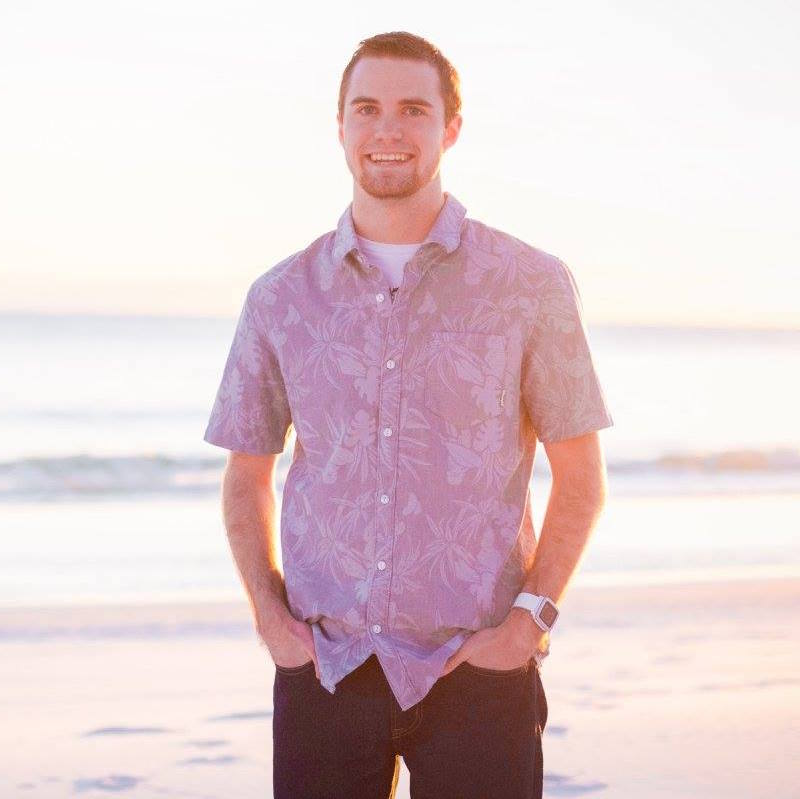
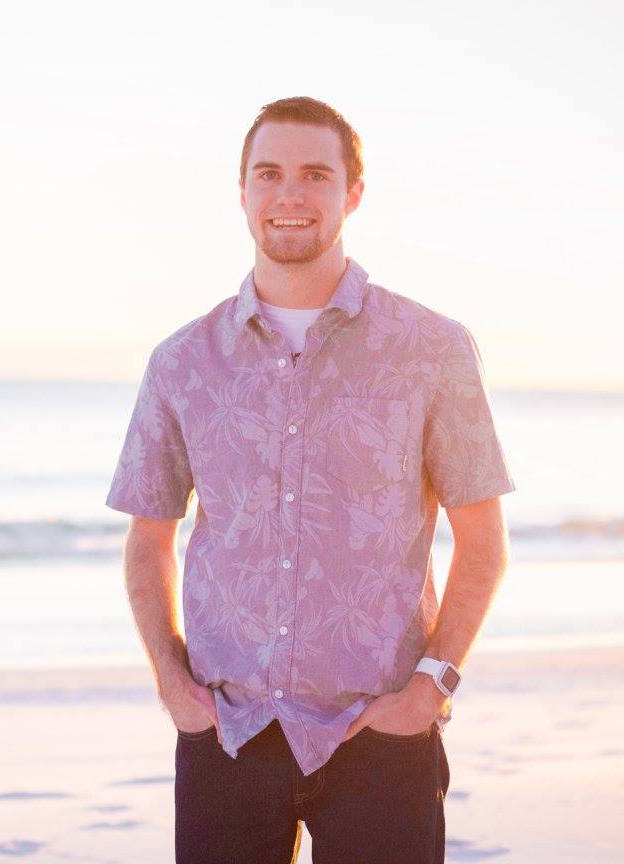
commit stuff besides videos

diff --git a/graphics.html b/graphics.html
@@ -6,7 +6,7 @@
     <link href='https://fonts.googleapis.com/css?family=PT+Mono' rel='stylesheet' type='text/css'>
     <link href='https://fonts.googleapis.com/css?family=Open+Sans:400,400italic,600,700,300' rel='stylesheet' type='text/css'>
     <link href="style.css" rel="stylesheet" text="text/css" media="screen">
-	<title>Braden Frazer</title>
+	<title>Braden Frazer | Video & Graphics</title>
 </head>
 <body>
 <nav>
@@ -15,16 +15,13 @@
       <label for="drop" class="toggle">☰</label>
       <input type="checkbox" id="drop" />
       <ul class="menu">
-        <li><a href="index.html">About</a></li>
+        <li><a href="index.html">Home</a></li>
+        <li><a href="about.html">About</a></li>
         <li><a href="resume.html">Resume</a></li>
-        <li><a class="active" href="portfolio.html">Portfolio</a>
-          <!-- Drop Down -->
-          <!--<label for="drop-1" class="toggle">Portfolio</label> -->
-          <!--<input type="checkbox" id="drop-1"/>-->
+        <li><a class="active" href="work.html">Work</a>
           <ul>
             <li><a href="production.html">Media Production</a></li>
-            <li><a href="#">Programming</a></li>
-            <li><a href="graphics.html">Video/Graphics</a></li>
+            <li><a href="graphics.html">Video & Graphics</a></li>
             <li><a href="web.html">Web</a></li>
           </ul>
         </li>
@@ -38,6 +35,7 @@
 </div>
 
 <div id="gallery">
+    <h4>Graphics</h4>
     <table>
         <tr>
             <td>
@@ -82,6 +80,35 @@
                     <a href="http://bradenfrazer.github.io/474/responsive/index.html"><img src="images/2.png"/></a>
                     <h2>Title</h2>
                     <p>Lorem ipsum dolor sit amet</p>
+                </div>
+            </td>
+        </tr>
+    </table>
+    <h4>Video</h4>
+    <table>
+        <tr>
+            <td>
+                <div id="card">
+                    <div id="videocontainer">
+                        <video controls>
+                            <source src="embed/BF2016Intro.mp4" type="video/mp4">
+                            Your browser does not support the video tag.
+                            </video></div>
+                    <h2>Breaking Free 2016 Intro</h2>
+                    <p>A pump-up intro video produced for the opening night of Breaking Free 2016, an annual junior high and high school church event at First Baptist Church in Pasadena, Texas.</p>
+                </div>
+            </td>
+        </tr>
+        <tr>
+            <td>
+                <div id="card">
+                    <div id="videocontainer">
+                        <video controls>
+                            <source src="embed/BF2015LQ.mp4" type="video/mp4">
+                            Your browser does not support the video tag.
+                            </video></div>
+                    <h2>Breaking Free 2015</h2>
+                    <p>Video shot, edited, and produced by myself of Breaking Free 2015, an annual junior high and high school church event at First Baptist Church in Pasadena, Texas.</p>
                 </div>
             </td>
         </tr>

diff --git a/work.html b/work.html
@@ -1,0 +1,58 @@
+<!DOCTYPE html>
+<html lang="en">
+<head>
+	<meta charset="utf-8">
+	<meta name="viewport" content="width=device-width; initial-scale=1.0">
+    <link href='https://fonts.googleapis.com/css?family=PT+Mono' rel='stylesheet' type='text/css'>
+    <link href='https://fonts.googleapis.com/css?family=Open+Sans:400,400italic,600,700,300' rel='stylesheet' type='text/css'>
+    <link href="style.css" rel="stylesheet" text="text/css" media="screen">
+	<title>Braden Frazer | Work</title>
+</head>
+<body>
+<nav>
+    <div id="container">
+      <a class="brand" href="index.html"><div id="logo">braden frazer</div></a>
+      <label for="drop" class="toggle">☰</label>
+      <input type="checkbox" id="drop" />
+      <ul class="menu">
+        <li><a href="index.html">Home</a></li>
+        <li><a href="about.html">About</a></li>
+        <li><a href="resume.html">Resume</a></li>
+        <li><a class="active" href="work.html">Work</a>
+          <ul>
+            <li><a href="production.html">Media Production</a></li>
+            <li><a href="graphics.html">Video & Graphics</a></li>
+            <li><a href="web.html">Web</a></li>
+          </ul>
+        </li>
+        <li><a href="contact.html">Contact</a></li>
+      </ul>
+    </div>
+    </nav>
+<div id="content">
+        <h2>Work</h2>
+        <div id="flexcontainer">
+            <div id="column1">
+                <h4>Media Production</h4>
+                <a href="production.html"><img src="/images/audioboard.jpg"></a>
+                <p>Lorem ipsum dolor sit amet, consectetur adipiscing elit. Integer elit sapien, varius eget ultrices ut, dignissim non felis. Integer vel faucibus urna. Vivamus nec cursus quam. Vestibulum porta ligula leo, vitae tincidunt erat blandit vel. Etiam tempor urna in velit convallis ultrices. </p>
+            </div>
+            <div id="column2">
+                <h4>Video & Graphics</h4>
+                <a href="graphics.html"><img src="/images/camera.jpg"></a>
+                <p>Lorem ipsum dolor sit amet, consectetur adipiscing elit. Integer elit sapien, varius eget ultrices ut, dignissim non felis. Integer vel faucibus urna. Vivamus nec cursus quam. Vestibulum porta ligula leo, vitae tincidunt erat blandit vel. Etiam tempor urna in velit convallis ultrices. </p>
+            </div>
+            <div id="column3">
+                <h4>Web Projects & Design</h4>
+                <a href="web.html"><img src="/images/laptop.jpg"></a>
+                <p>Lorem ipsum dolor sit amet, consectetur adipiscing elit. Integer elit sapien, varius eget ultrices ut, dignissim non felis. Integer vel faucibus urna. Vivamus nec cursus quam. Vestibulum porta ligula leo, vitae tincidunt erat blandit vel. Etiam tempor urna in velit convallis ultrices. </p>
+                <a href="444/index.html">444</a><br>
+                <a href="445/index.html">445</a><br>
+                <a href="474/index.html">474</a><br>
+            </div>
+        </div>
+        
+</div>
+
+</body>
+</html>

diff --git a/about.html b/about.html
@@ -6,7 +6,7 @@
     <link href='https://fonts.googleapis.com/css?family=PT+Mono' rel='stylesheet' type='text/css'>
     <link href='https://fonts.googleapis.com/css?family=Open+Sans:400,400italic,600,700,300' rel='stylesheet' type='text/css'>
     <link href="style.css" rel="stylesheet" text="text/css" media="screen">
-	<title>Braden Frazer</title>
+	<title>Braden Frazer | About</title>
 </head>
 <body>
 <nav>
@@ -15,8 +15,8 @@
       <label for="drop" class="toggle">☰</label>
       <input type="checkbox" id="drop" />
       <ul class="menu">
-        <li><a class="active" href="index.html">Home</a></li>
-        <li><a href="about.html">About</a></li>
+        <li><a href="index.html">Home</a></li>
+        <li><a class="active" href="about.html">About</a></li>
         <li><a href="resume.html">Resume</a></li>
         <li><a href="work.html">Work</a>
           <ul>
@@ -30,27 +30,13 @@
     </div>
     </nav>
 <div id="content">
-    <img src="images/me.jpg"/>
     <div id="flexcontainer">
         <div id="column1">
-        <h2>About Me</h2>
-        <h4 class="hometext">Aspiring audio engineer, video producer, visual designer, programmer, and Aggie.</h4>
+        <img src="images/profile.png"/>
         </div>
         <div id="column2">
-        <img src="images/kyle.jpeg"/>
-        </div>
-        <div id="column3">
-            <h3>Follow Me On</h3>
-        <table>
-            <tr>
-                <td align="center"><a href="https://www.facebook.com/bbombf" target="_blank"><img class="social" src="images/Facebook.png"/></a></td>
-                <td align="center"><a href="https://twitter.com/bbombf" target="_blank"><img class="social" src="images/Twitter.png"/></a></td>
-                <td align="center"><a href="https://www.instagram.com/bbombf/" target="_blank"><img class="social" src="images/Instagram.png"/></a></td>
-                <td align="center"><a href="https://www.linkedin.com/in/bradenfrazer" target="_blank"><img class="social" src="images/LinkedIn.png"/></a></td>
-            </tr>
-        </table>
-            <h4>email</h4>
-        <a class="center" href="mailto:bbombf@gmail.com">bbombf@gmail.com</a>
+        <h2>Who Am I?</h2>
+        <p>Lorem ipsum dolor sit amet, consectetur adipiscing elit. Integer elit sapien, varius eget ultrices ut, dignissim non felis. Integer vel faucibus urna. Vivamus nec cursus quam. Vestibulum porta ligula leo, vitae tincidunt erat blandit vel. Etiam tempor urna in velit convallis ultrices. Lorem ipsum dolor sit amet, consectetur adipiscing elit. Integer elit sapien, varius eget ultrices ut, dignissim non felis. Integer vel faucibus urna. Vivamus nec cursus quam. Vestibulum porta ligula leo, vitae tincidunt erat blandit vel. Etiam tempor urna in velit convallis ultrices.</p>
         </div>
     </div>
 </div>

diff --git a/production.html b/production.html
@@ -6,7 +6,7 @@
     <link href='https://fonts.googleapis.com/css?family=PT+Mono' rel='stylesheet' type='text/css'>
     <link href='https://fonts.googleapis.com/css?family=Open+Sans:400,400italic,600,700,300' rel='stylesheet' type='text/css'>
     <link href="style.css" rel="stylesheet" text="text/css" media="screen">
-	<title>Braden Frazer</title>
+	<title>Braden Frazer | Media Production</title>
 </head>
 <body>
 <nav>
@@ -15,16 +15,13 @@
       <label for="drop" class="toggle">☰</label>
       <input type="checkbox" id="drop" />
       <ul class="menu">
-        <li><a href="index.html">About</a></li>
+        <li><a href="index.html">Home</a></li>
+        <li><a href="about.html">About</a></li>
         <li><a href="resume.html">Resume</a></li>
-        <li><a class="active" href="portfolio.html">Portfolio</a>
-          <!-- Drop Down -->
-          <!--<label for="drop-1" class="toggle">Portfolio</label> -->
-          <!--<input type="checkbox" id="drop-1"/>-->
+        <li><a class="active" href="work.html">Work</a>
           <ul>
             <li><a href="production.html">Media Production</a></li>
-            <li><a href="#">Programming</a></li>
-            <li><a href="graphics.html">Video/Graphics</a></li>
+            <li><a href="graphics.html">Video & Graphics</a></li>
             <li><a href="web.html">Web</a></li>
           </ul>
         </li>

diff --git a/web.html b/web.html
@@ -6,7 +6,7 @@
     <link href='https://fonts.googleapis.com/css?family=PT+Mono' rel='stylesheet' type='text/css'>
     <link href='https://fonts.googleapis.com/css?family=Open+Sans:400,400italic,600,700,300' rel='stylesheet' type='text/css'>
     <link href="style.css" rel="stylesheet" text="text/css" media="screen">
-	<title>Braden Frazer</title>
+	<title>Braden Frazer | Web</title>
 </head>
 <body>
 <nav>
@@ -15,16 +15,13 @@
       <label for="drop" class="toggle">☰</label>
       <input type="checkbox" id="drop" />
       <ul class="menu">
-        <li><a href="index.html">About</a></li>
+        <li><a href="index.html">Home</a></li>
+        <li><a href="about.html">About</a></li>
         <li><a href="resume.html">Resume</a></li>
-        <li><a class="active" href="portfolio.html">Portfolio</a>
-          <!-- Drop Down -->
-          <!--<label for="drop-1" class="toggle">Portfolio</label> -->
-          <!--<input type="checkbox" id="drop-1"/>-->
+        <li><a class="active" href="work.html">Work</a>
           <ul>
             <li><a href="production.html">Media Production</a></li>
-            <li><a href="#">Programming</a></li>
-            <li><a href="graphics.html">Video/Graphics</a></li>
+            <li><a href="graphics.html">Video & Graphics</a></li>
             <li><a href="web.html">Web</a></li>
           </ul>
         </li>

diff --git a/contact.html b/contact.html
@@ -6,7 +6,7 @@
     <link href='https://fonts.googleapis.com/css?family=PT+Mono' rel='stylesheet' type='text/css'>
     <link href='https://fonts.googleapis.com/css?family=Open+Sans:400,400italic,600,700,300' rel='stylesheet' type='text/css'>
     <link href="style.css" rel="stylesheet" text="text/css" media="screen">
-	<title>Braden Frazer</title>
+	<title>Braden Frazer | Contact</title>
 </head>
 <body>
 <nav>
@@ -15,13 +15,13 @@
       <label for="drop" class="toggle">☰</label>
       <input type="checkbox" id="drop" />
       <ul class="menu">
-        <li><a href="index.html">About</a></li>
+        <li><a href="index.html">Home</a></li>
+        <li><a href="about.html">About</a></li>
         <li><a href="resume.html">Resume</a></li>
-        <li><a href="portfolio.html">Portfolio</a>
+        <li><a href="work.html">Work</a>
           <ul>
             <li><a href="production.html">Media Production</a></li>
-            <li><a href="programming.html">Programming</a></li>
-            <li><a href="graphics.html">Video/Graphics</a></li>
+            <li><a href="graphics.html">Video & Graphics</a></li>
             <li><a href="web.html">Web</a></li>
           </ul>
         </li>

diff --git a/resume.html b/resume.html
@@ -6,7 +6,7 @@
     <link href='https://fonts.googleapis.com/css?family=PT+Mono' rel='stylesheet' type='text/css'>
     <link href='https://fonts.googleapis.com/css?family=Open+Sans:400,400italic,600,700,300' rel='stylesheet' type='text/css'>
     <link href="style.css" rel="stylesheet" text="text/css" media="screen">
-	<title>Braden Frazer</title>
+	<title>Braden Frazer | Resume</title>
 </head>
 <body>
 <nav>
@@ -15,13 +15,13 @@
       <label for="drop" class="toggle">☰</label>
       <input type="checkbox" id="drop" />
       <ul class="menu">
-        <li><a href="index.html">About</a></li>
+        <li><a href="index.html">Home</a></li>
+        <li><a href="about.html">About</a></li>
         <li><a class="active" href="resume.html">Resume</a></li>
-        <li><a href="portfolio.html">Portfolio</a>
+        <li><a href="work.html">Work</a>
           <ul>
             <li><a href="production.html">Media Production</a></li>
-            <li><a href="#">Programming</a></li>
-            <li><a href="graphics.html">Video/Graphics</a></li>
+            <li><a href="graphics.html">Video & Graphics</a></li>
             <li><a href="web.html">Web</a></li>
           </ul>
         </li>

diff --git a/style.css b/style.css
@@ -175,6 +175,13 @@ h4 {
     text-transform: none;
 }
 
+.hometext {
+    font-family: "Open Sans";
+    font-size: 16px;
+    text-align: center;
+    
+}
+
 h3 a { color: #000; }
 
 a { 
@@ -267,7 +274,7 @@ p {
     margin: 0 auto;
 }
 
-#column3 img {
+#column3 .social {
     width:20px;
 }
 
@@ -325,7 +332,7 @@ p {
     padding-bottom: 56%; /* proportional scaling */
 }
 
-#card #videocontainer iframe {
+#card #videocontainer iframe, #card #videocontainer video {
     position: absolute;
     width: 100%;
     height: 100%;
